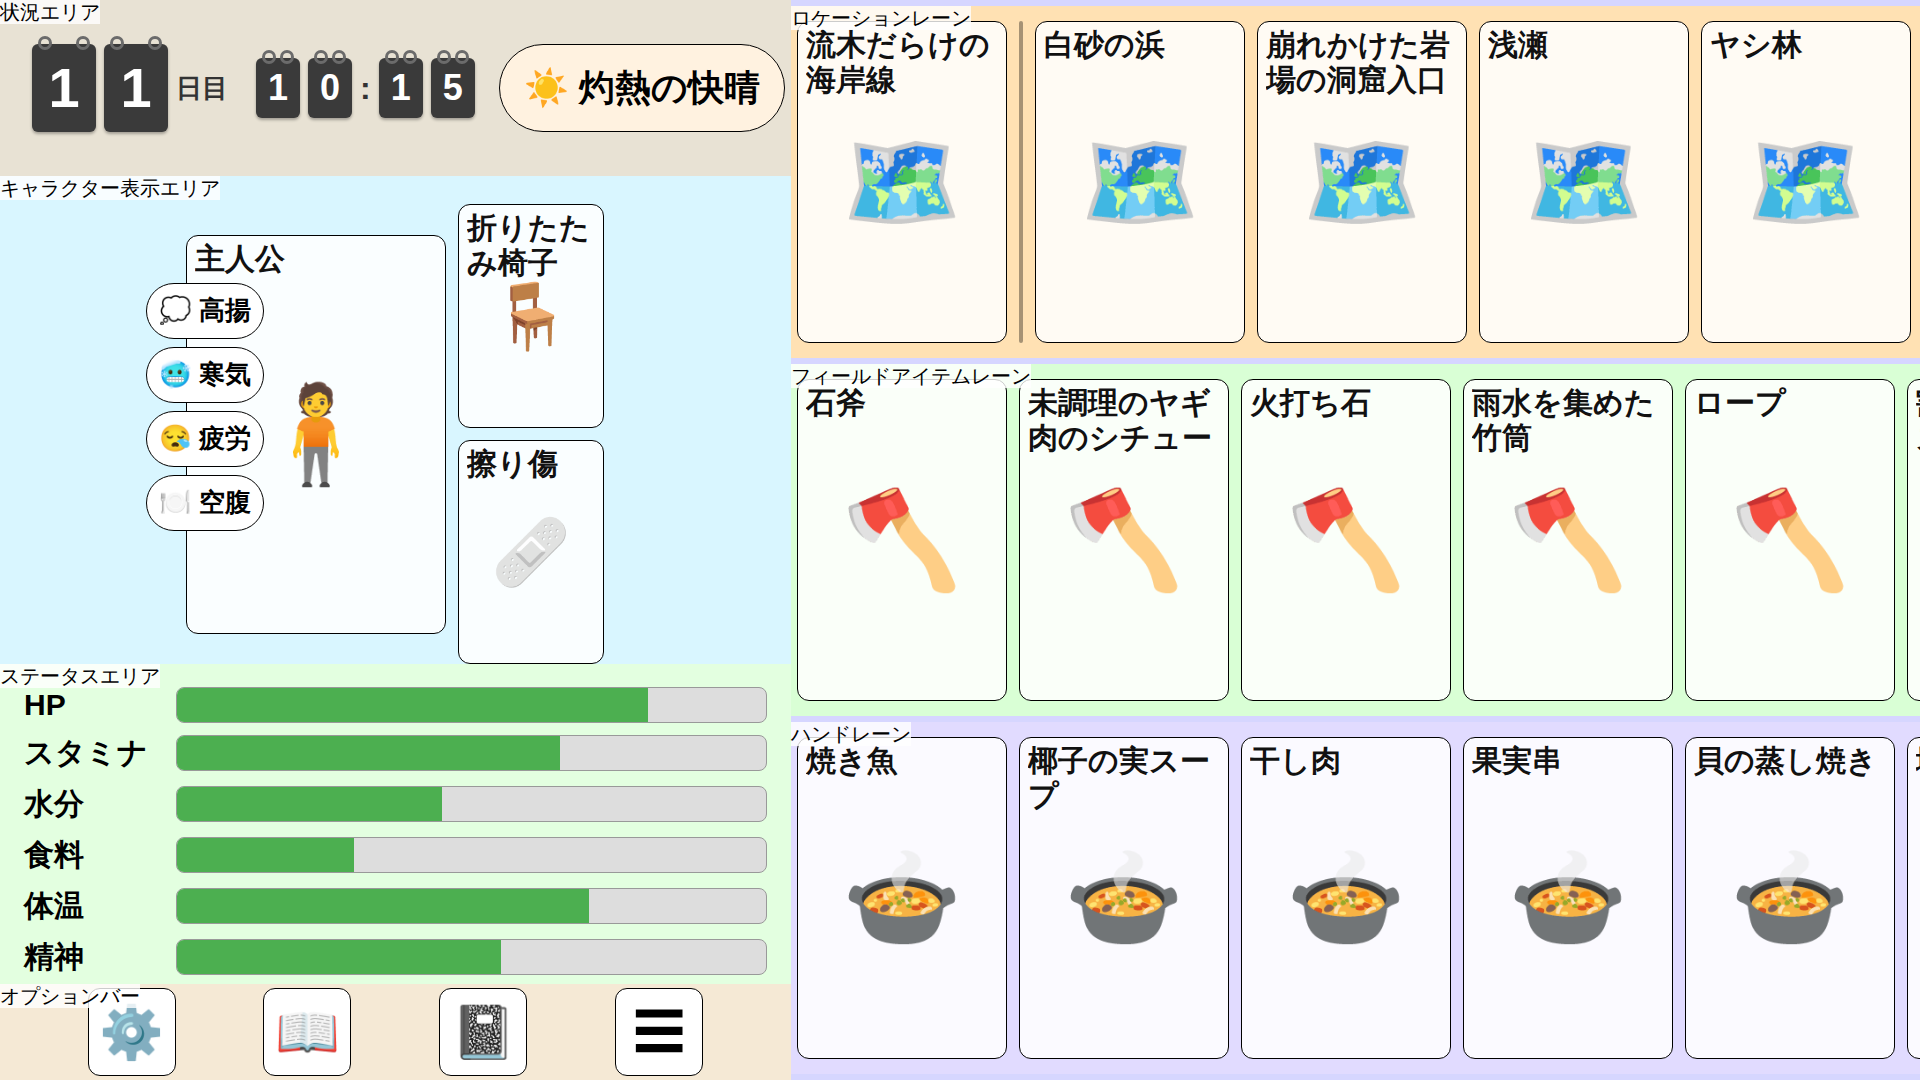
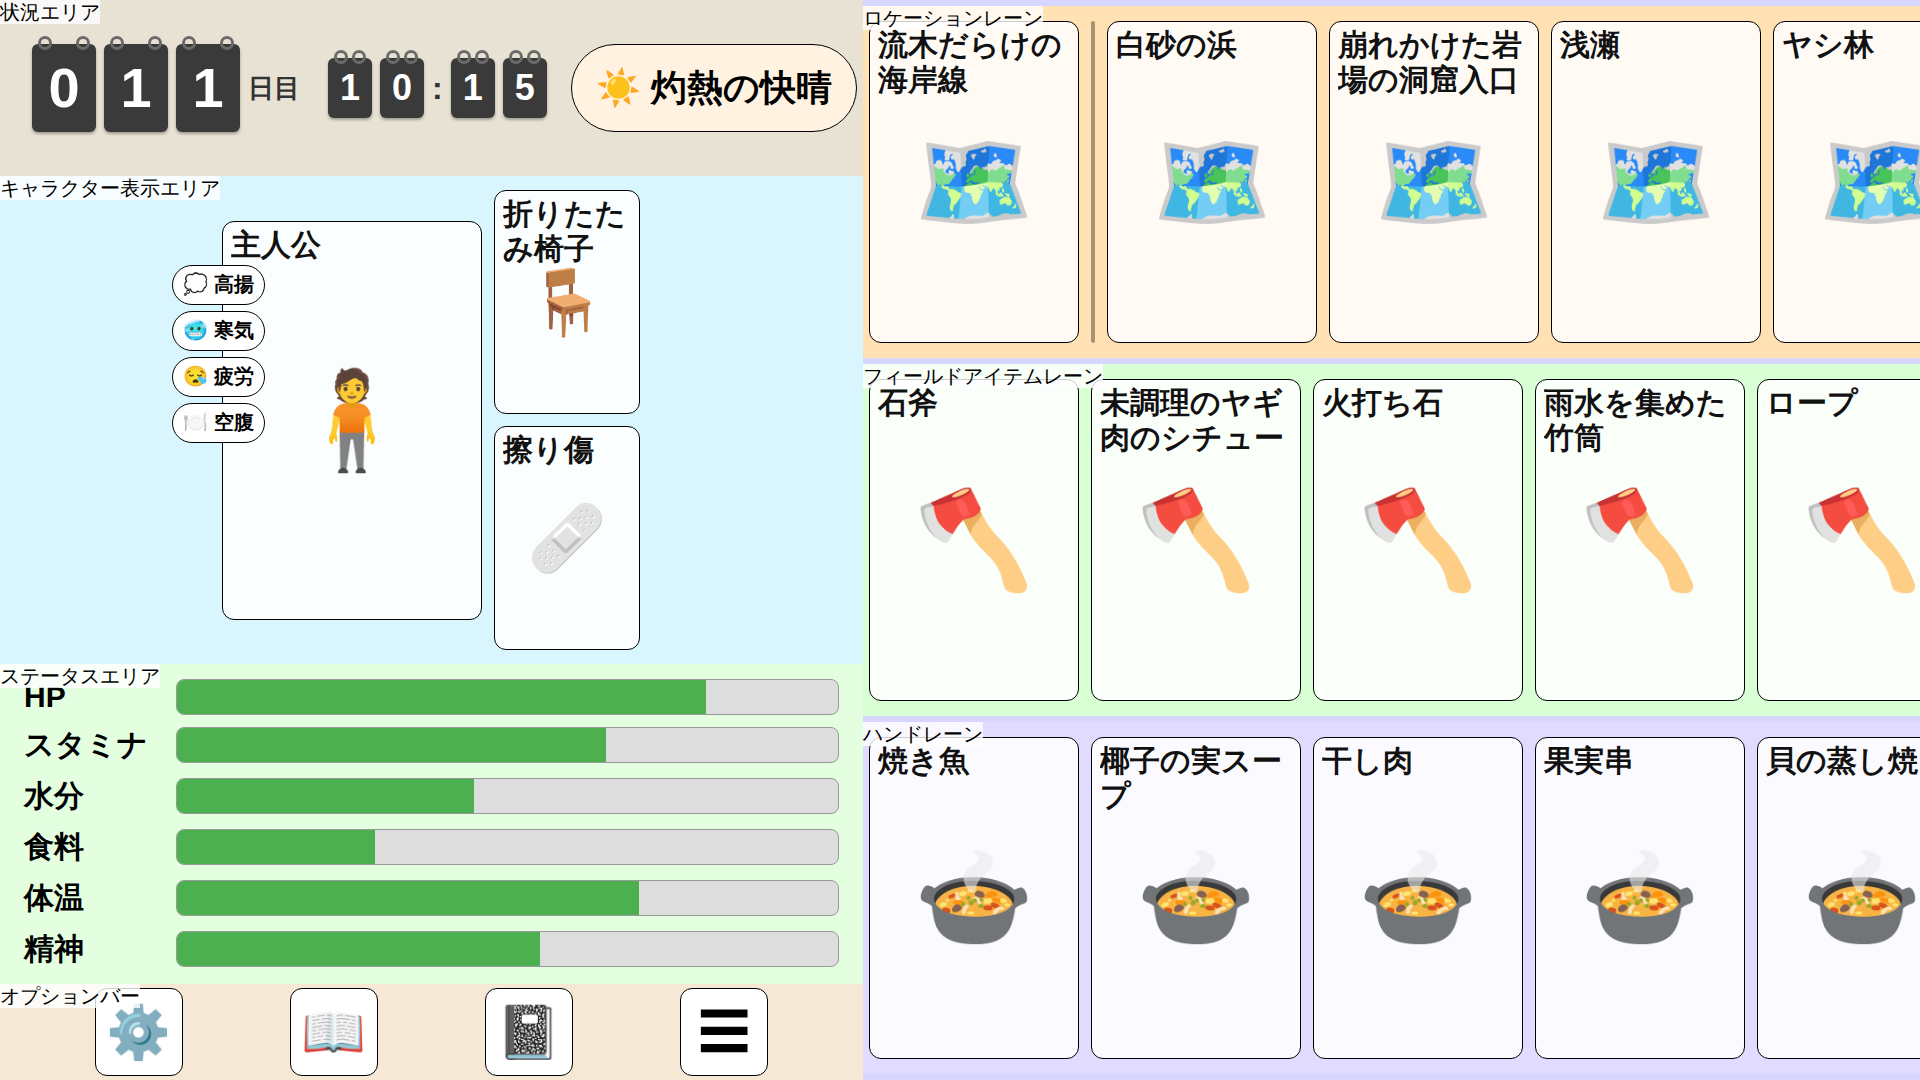
docs: オプションバーを画面上部に固定し、ステータスエリアと重ならないよう再配置
- オプションバーを status-area 内蔵から独立したバーへ戻し、縦型では
  画面最上部（キャラクターエリアの直上）に、横型では従来どおり
  ダッシュボード列の最下部に固定。通常のフローで押し出す配置にし、
  重なりが生じないようにした
- オプションバーが縦型で縦方向の余裕を占有するため、縦型のみ
  ポートレイトカードを170×261uへ縮小（横型は260×399uのまま）。
  条件チップの重なり量もカードサイズに合わせて調整
- 経過日数のフリップカードを2桁から3桁へ変更

Claude-Session: https://claude.ai/code/session_017mz69xFpjWLJMvgraCLnuJ

Changed region(s): [[0.0, 0.0, 1.0, 1.0], [0.0312, 0.9167, 0.0938, 1.0], [0.0312, 0.0611, 0.0625, 0.0917]]

diff --git a/Documents/UI/ScreenLayout_Mock.html b/Documents/UI/ScreenLayout_Mock.html
@@ -19,8 +19,8 @@
       --margin: calc(6 * var(--u));
       --bar-h: calc(96 * var(--u));
       --situation-h: calc(176 * var(--u));
-      --portrait-w: calc(260 * var(--u));
-      --portrait-h: calc(399 * var(--u));
+      --portrait-w: calc(170 * var(--u));
+      --portrait-h: calc(261 * var(--u));
       --small-card-w: calc(146 * var(--u));
       --small-card-h: calc(224 * var(--u));
       --radius: calc(12 * var(--u));
@@ -144,7 +144,6 @@
       align-items: center;
       justify-content: center;
       gap: var(--gap);
-      padding-top: calc(28 * var(--u));
       background: #d9f6ff;
     }
 
@@ -157,11 +156,11 @@
 
     .condition-chips {
       position: absolute;
-      top: calc(48 * var(--u));
-      left: calc(-40 * var(--u));
+      top: calc(44 * var(--u));
+      left: calc(-50 * var(--u));
       display: flex;
       flex-direction: column;
-      gap: calc(8 * var(--u));
+      gap: calc(6 * var(--u));
       z-index: 1;
     }
 
@@ -169,12 +168,12 @@
       display: flex;
       align-items: center;
       gap: calc(4 * var(--u));
-      height: calc(56 * var(--u));
-      padding: 0 calc(12 * var(--u));
+      height: calc(40 * var(--u));
+      padding: 0 calc(10 * var(--u));
       border: 1px solid #000;
-      border-radius: calc(28 * var(--u));
+      border-radius: calc(20 * var(--u));
       background: #fff;
-      font-size: calc(26 * var(--u));
+      font-size: calc(20 * var(--u));
       font-weight: 700;
       white-space: nowrap;
     }
@@ -203,13 +202,6 @@
       gap: calc(16 * var(--u));
       padding: calc(24 * var(--u));
       background: #e3ffe0;
-    }
-
-    .status-options {
-      display: flex;
-      justify-content: flex-end;
-      gap: var(--gap);
-      margin-bottom: calc(8 * var(--u));
     }
 
     .icon-button {
@@ -353,15 +345,19 @@
       white-space: nowrap;
     }
 
-    /* ---- オプションバー（横型のみ表示） ---- */
+    /* ---- オプションバー ---- */
+    /* 縦型: 画面上部に固定（order:-1）。横型: 画面下部（order は横型メディアクエリで上書き） */
 
     .options-bar {
       position: relative;
-      display: none;
+      order: -1;
       height: var(--bar-h);
       flex-shrink: 0;
+      display: flex;
       align-items: center;
-      justify-content: space-evenly;
+      justify-content: flex-end;
+      gap: var(--gap);
+      padding: 0 calc(24 * var(--u));
       background: #f5e9d5;
     }
 
@@ -424,6 +420,12 @@
     /* ---- 横型 ---- */
 
     @media (orientation: landscape) {
+      /* 横型はオプションバーが最下段のため、縦型より縦の余裕がある */
+      :root {
+        --portrait-w: calc(260 * var(--u));
+        --portrait-h: calc(399 * var(--u));
+      }
+
       .screen { flex-direction: row; }
 
       .situation-area { order: -1; }
@@ -445,13 +447,16 @@
       .status-area {
         flex: 1;
         min-height: 0;
+        justify-content: center;
         gap: calc(10 * var(--u));
-        padding: calc(32 * var(--u)) calc(24 * var(--u)) calc(16 * var(--u));
+        padding: calc(24 * var(--u));
       }
 
-      .status-options { display: none; }
-
-      .options-bar { display: flex; }
+      .options-bar {
+        order: 1;
+        justify-content: space-evenly;
+        padding: 0;
+      }
 
       .field-area { width: calc(1350 * var(--u)); height: auto; }
     }
@@ -479,12 +484,6 @@
         </div>
         <div class="status-area">
           <div class="label">ステータスエリア</div>
-          <div class="status-options">
-            <button class="icon-button" type="button" aria-label="設定" title="設定">⚙</button>
-            <button class="icon-button" type="button" aria-label="図鑑" title="図鑑">📖</button>
-            <button class="icon-button" type="button" aria-label="日記" title="日記">📓</button>
-            <button class="icon-button" type="button" aria-label="メニュー" title="メニュー">☰</button>
-          </div>
           <div class="status-item">
             <div class="status-name">HP</div>
             <div class="status-bar-container"><div class="status-bar" style="width:80%"></div></div>
@@ -515,6 +514,7 @@
         <div class="label">状況エリア</div>
         <button class="flip-calendar" type="button" aria-label="時間経過アクション" title="時間経過アクション">
           <span class="calendar-row calendar-row-day">
+            <span class="flip-digit">0</span>
             <span class="flip-digit">1</span>
             <span class="flip-digit">1</span>
             <span class="calendar-day-unit">日目</span>
